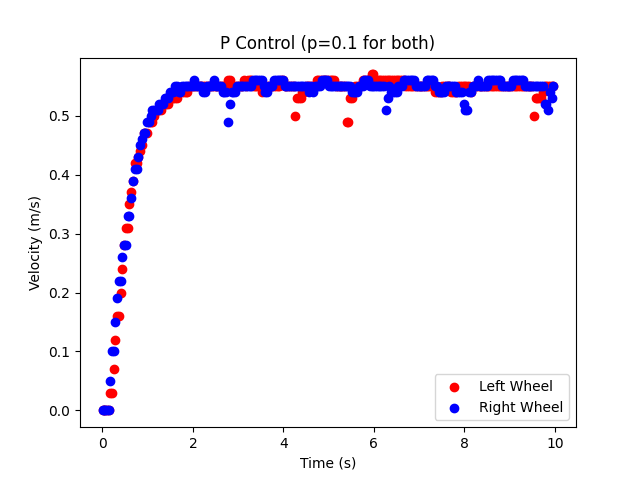
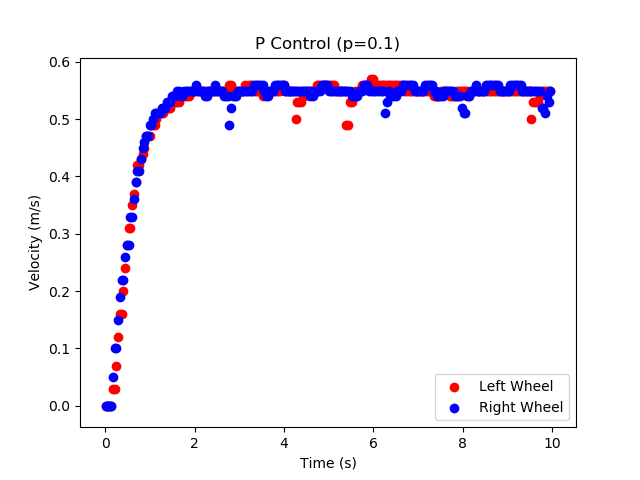
fixed the plots

diff --git a/Old_Code/plotting.py b/Old_Code/plotting.py
@@ -9,7 +9,7 @@ linear_l = []
 linear_r = []
 
 # read in the data
-lines = np.loadtxt('P_control_0.11l_0.1r.txt', delimiter=',') 
+lines = np.loadtxt('Data/.txt', delimiter=',') 
 for line in lines:
     time_data.append(line[0]) # the first item in row is the time
     linear_l.append(line[1]) # the second item in row is left linear velocity
@@ -27,7 +27,7 @@ plt.scatter(time_data,linear_r,color='blue', label='Right Wheel')
 # label the axes etc
 ax.set_xlabel('Time (s)')
 ax.set_ylabel('Velocity (m/s)')
-ax.set_title('P Control on Bot with p_left = 0.11 and p_right = 0.1')
+ax.set_title('')
 plt.legend(loc = 'lower right') # legend location can be changed
 
-plt.savefig('P_control_0.11l_0.1r.png')
+plt.savefig('Plots/.png')
